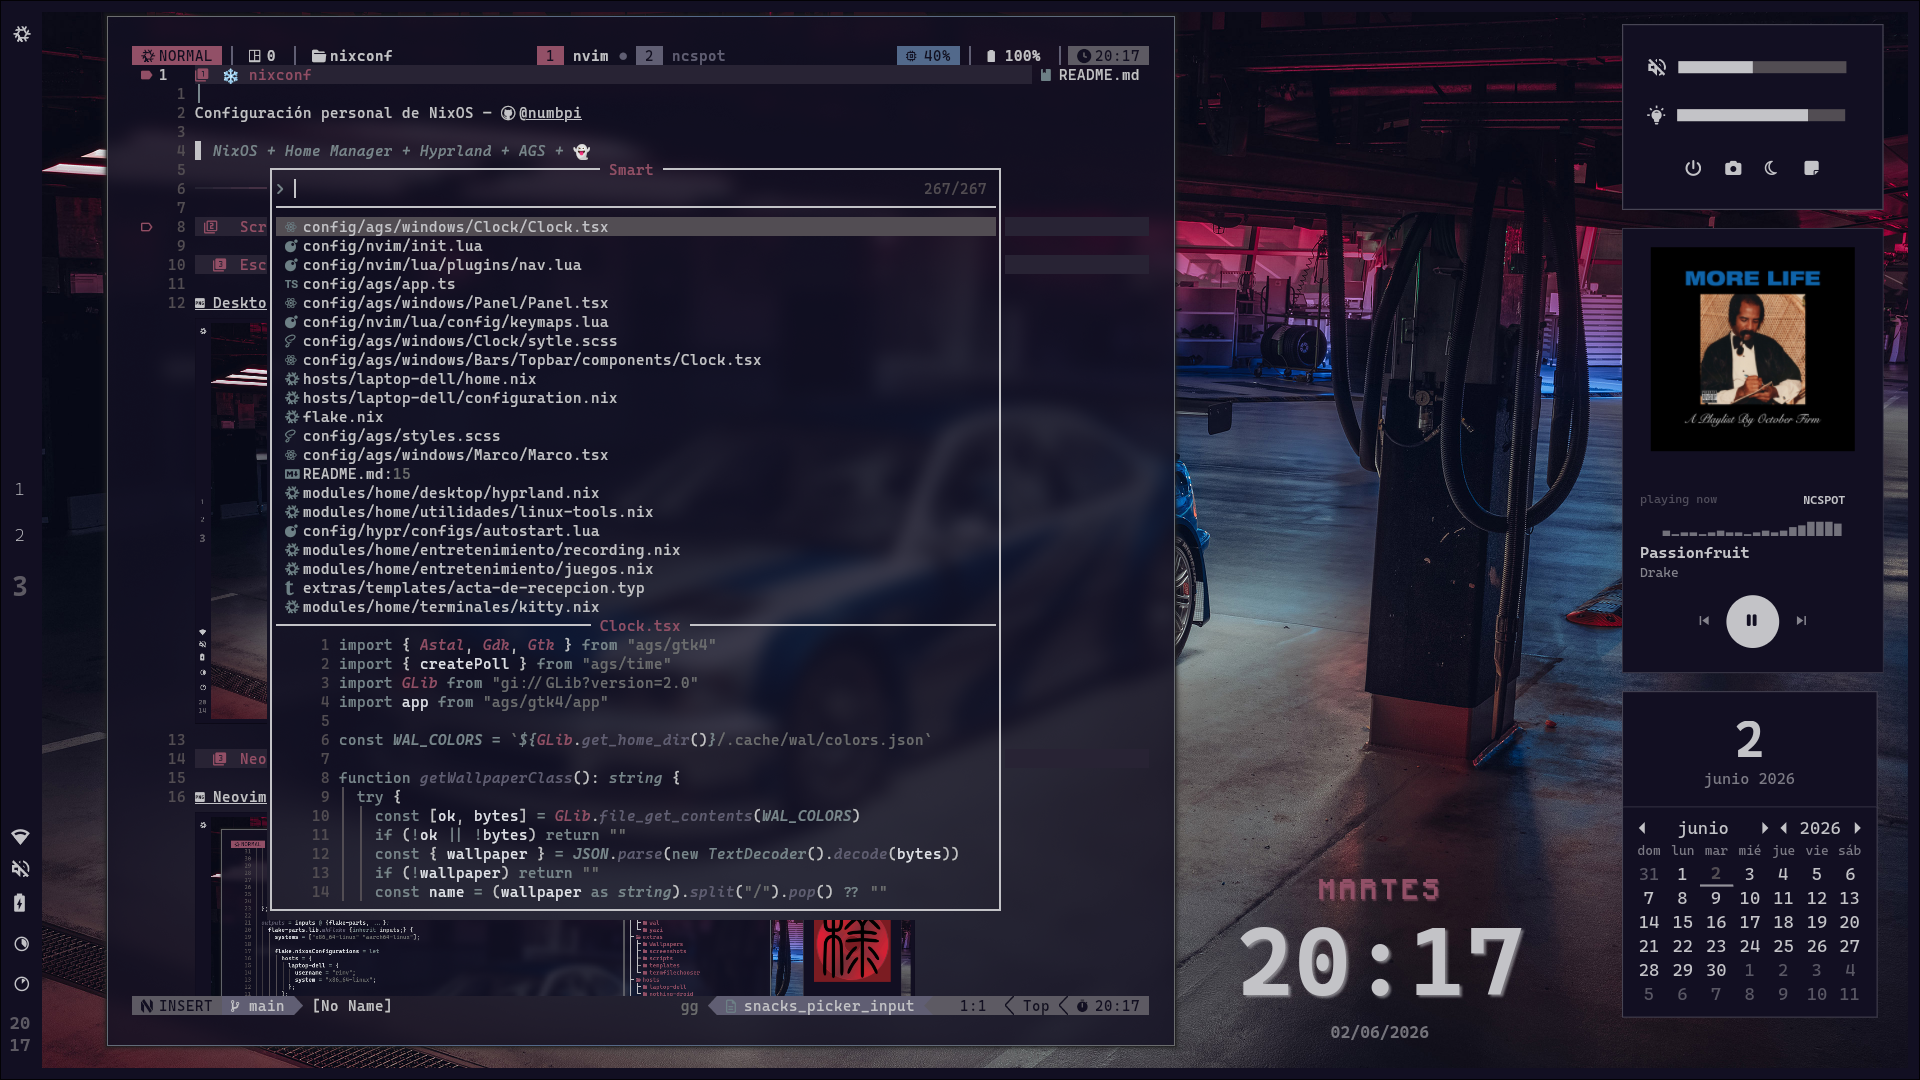
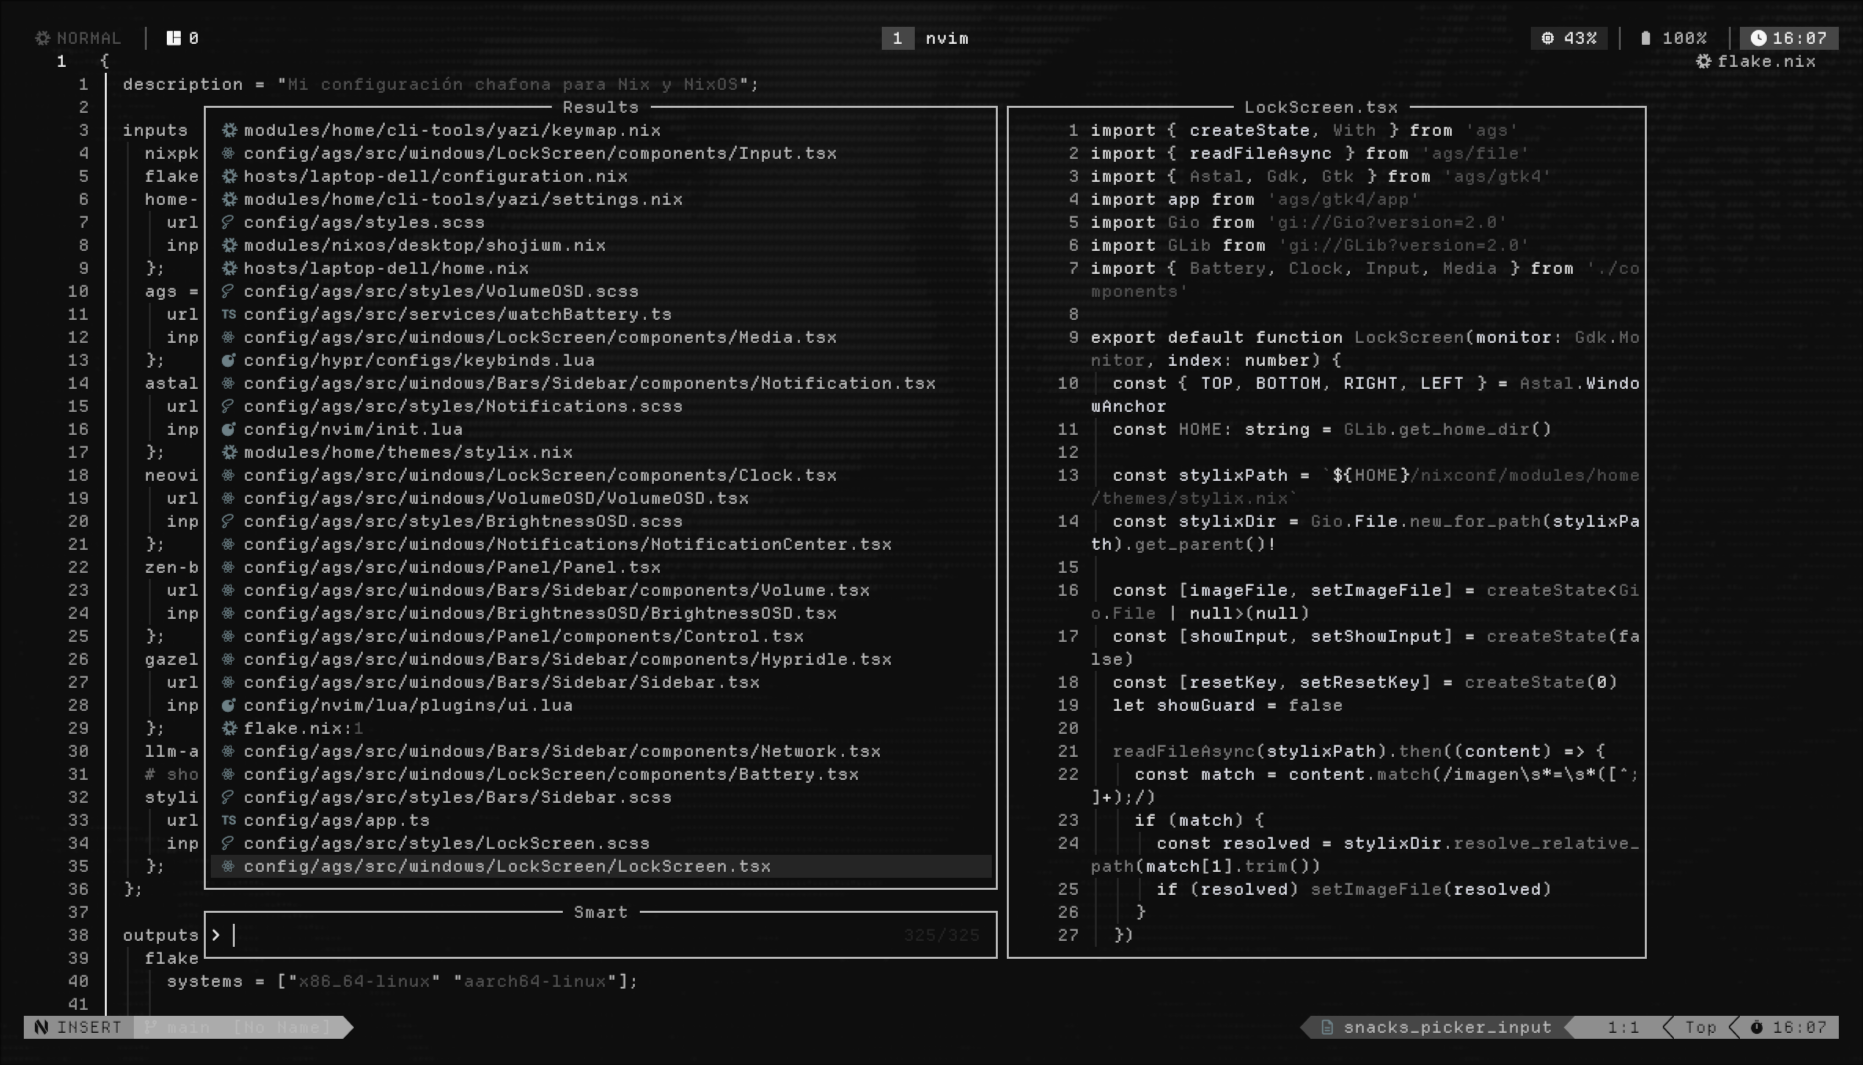
cambios

diff --git a/README.md b/README.md
@@ -1,6 +1,6 @@
-# ❄ nixconf
+# ☠ nixconf
 
-Configuración personal de NixOS — [@qisvo](https://github.com/qisvo)
+Configuración personal de NixOS — [@ot0h](https://github.com/ot0h)
 
 > NixOS + Home Manager + Hyprland + AGS + Depresion xd
 
